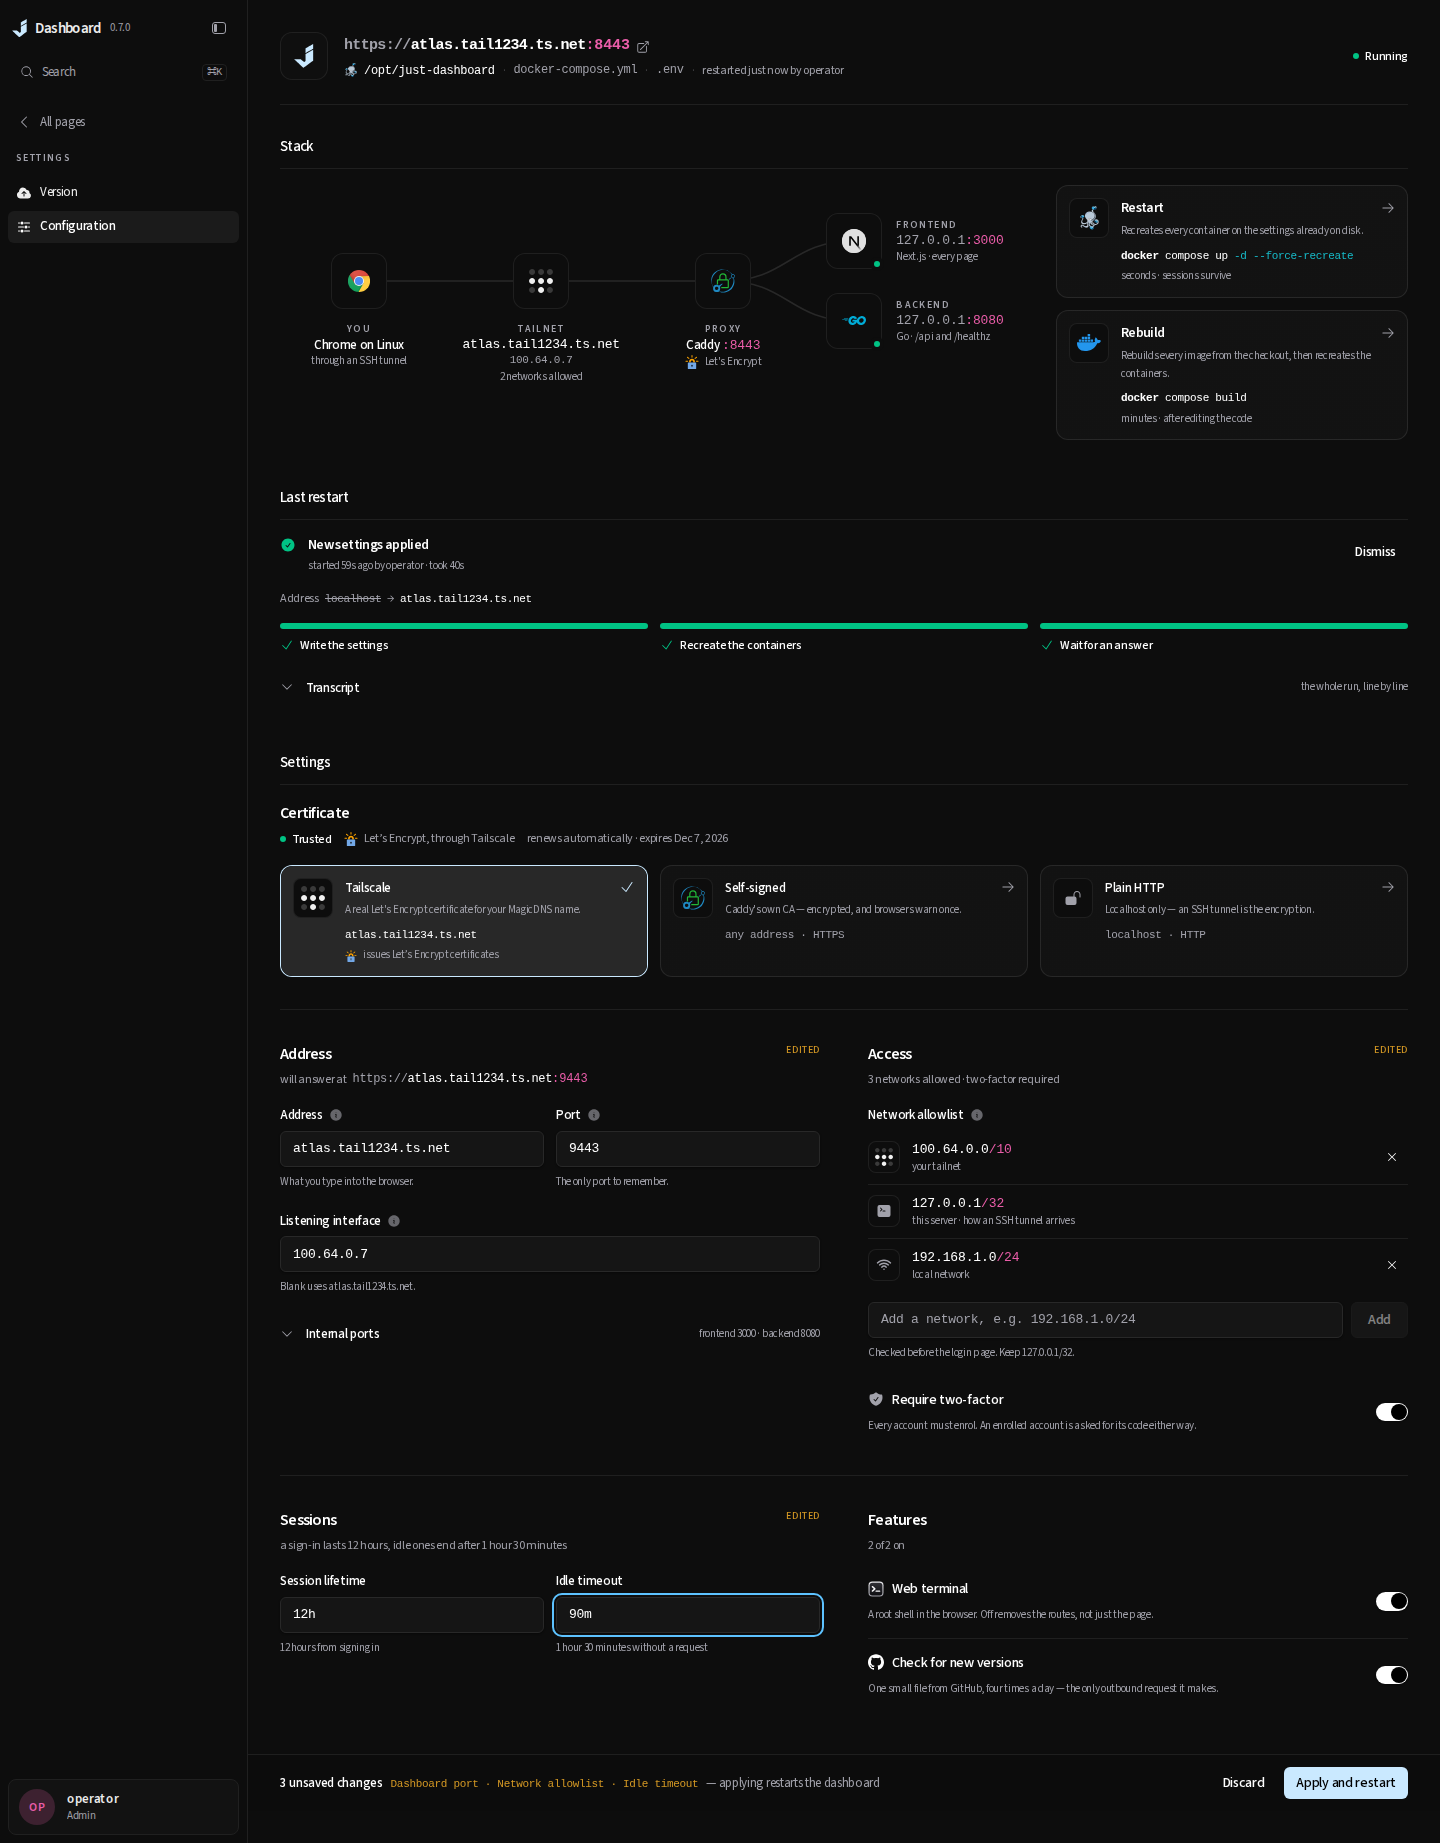
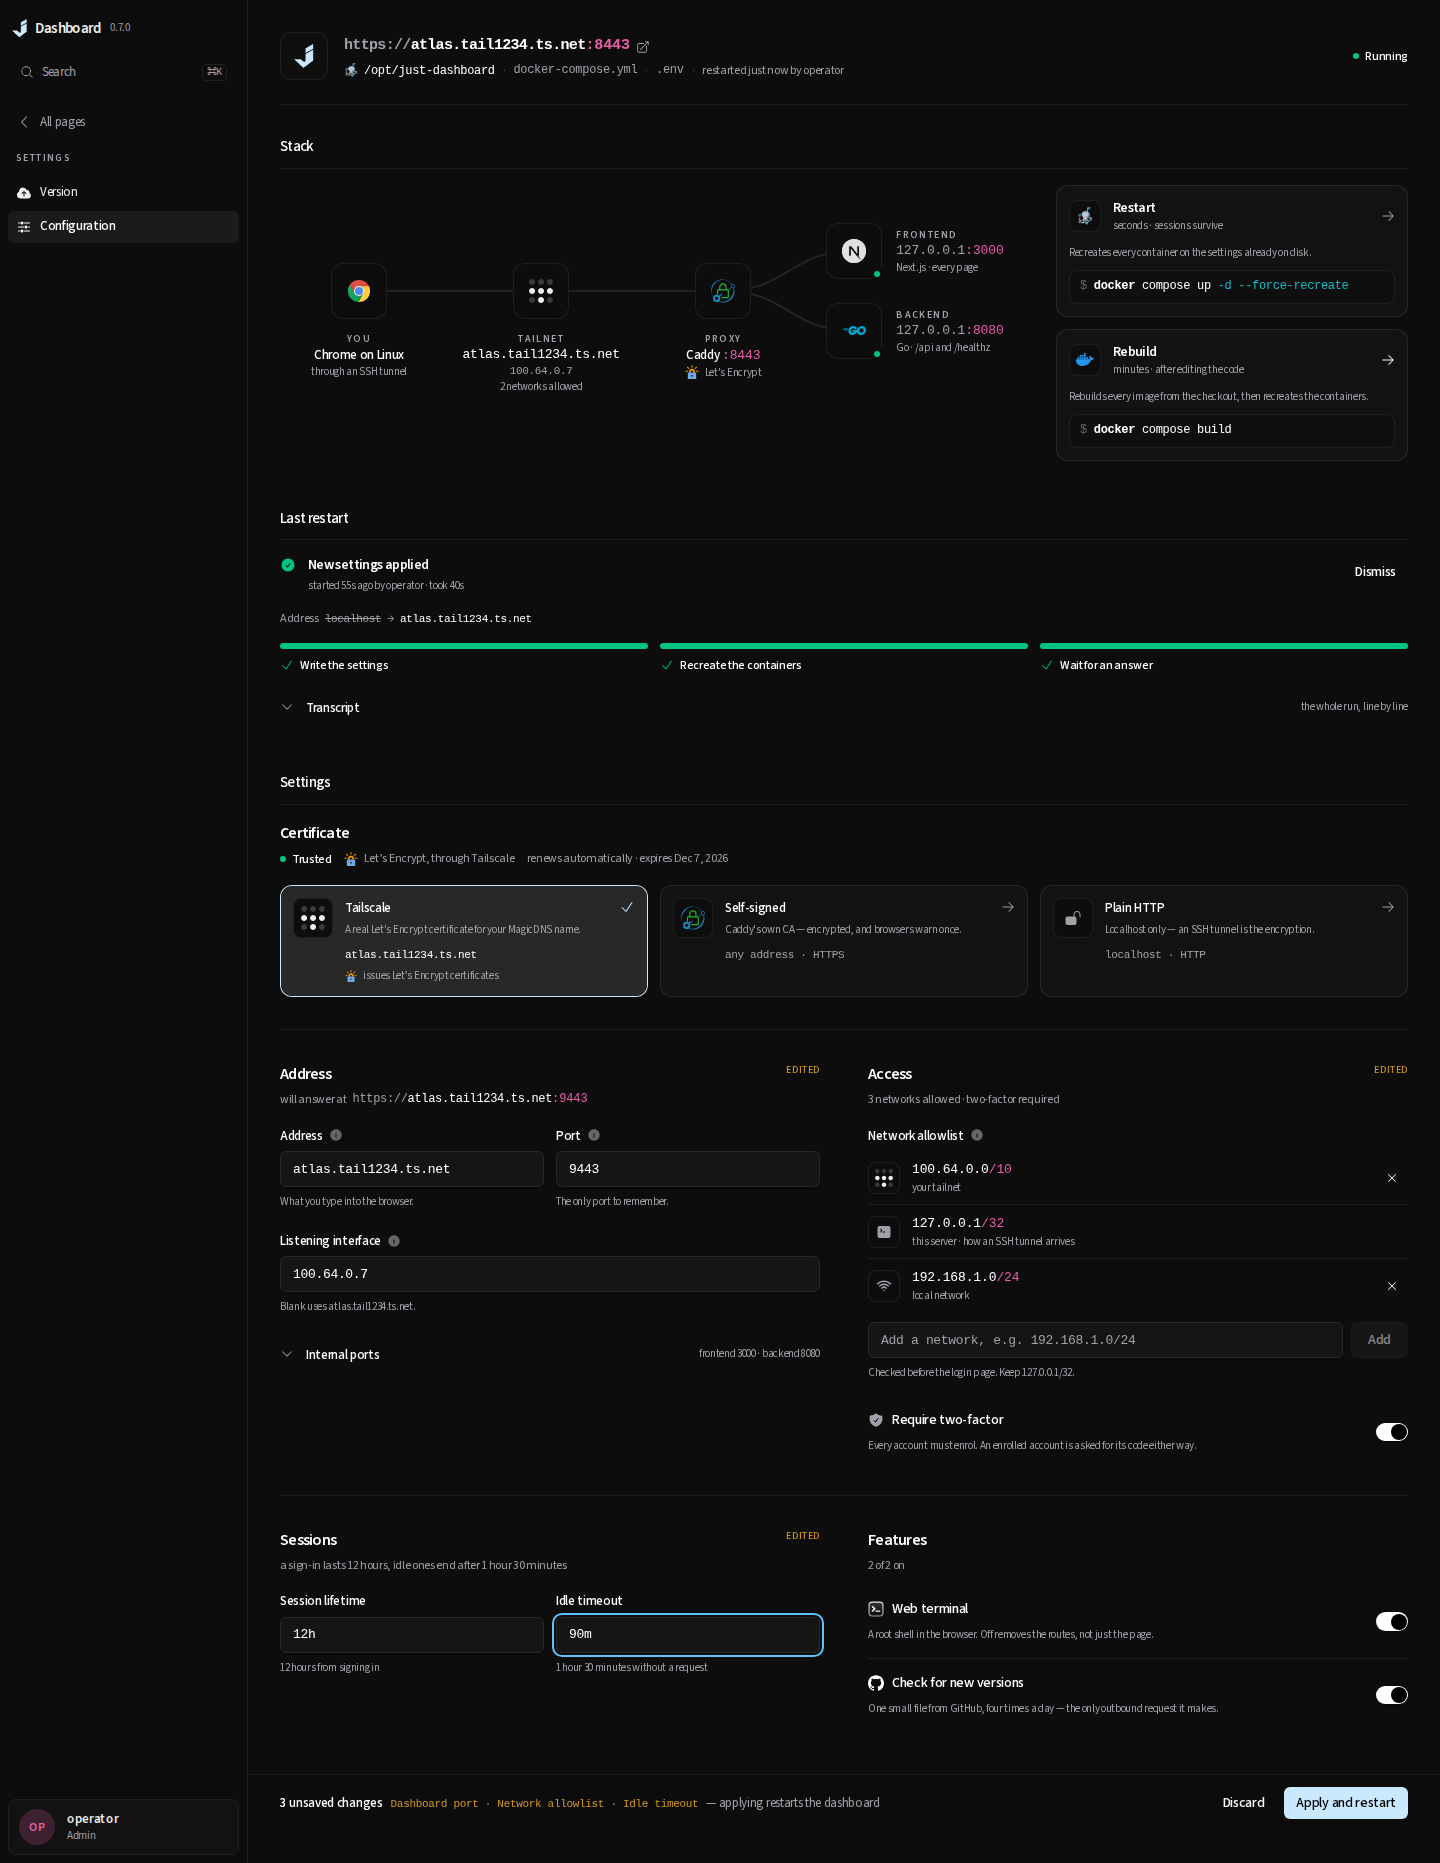
Head the restart cards with their mark and cost, and run the command full width under them
The logo had a column of its own, so each card was a tile over empty space beside four lines of words that wrapped. The mark now sits beside the name and the cost, the sentence takes the card's width on one line, and the command is a recessed strip across the foot.

diff --git a/frontend/src/app/(dashboard)/dashboard/configuration/page.tsx b/frontend/src/app/(dashboard)/dashboard/configuration/page.tsx
@@ -839,20 +839,34 @@ function Command({
   return (
     <ChoiceCard
       verb={verb}
-      title={<span className="text-sm font-semibold tracking-tight">{title}</span>}
-      logo={<ProductLogo id={product} />}
-      description={description}
-      index={index}
-      trailing={
-        <span className="flex min-w-0 flex-col gap-1 pt-1">
-          <ShellWords command={command} className="truncate text-hint" />
-          <span className="text-hint text-muted-foreground">
-            {mine && run ? <TextShimmer>{configPhaseLabel(run)}</TextShimmer> : cost}
+      // The mark heads the card beside its name and its cost, rather than
+      // through `logo`, which gives the tile a column of its own: beside four
+      // lines of words that column was a 40px tile over 80px of nothing, and
+      // the words it pushed over wrapped twice as often. Here the tile is as
+      // tall as the two lines beside it, and what follows has the full width.
+      title={
+        <span className="flex min-w-0 items-center gap-3">
+          <ProductLogo id={product} size="sm" />
+          <span className="min-w-0">
+            <span className="block truncate text-sm font-semibold tracking-tight">{title}</span>
+            <span className="block truncate text-hint font-normal text-muted-foreground">
+              {mine && run ? <TextShimmer>{configPhaseLabel(run)}</TextShimmer> : cost}
+            </span>
           </span>
         </span>
       }
+      description={<span className="mt-0.5 block">{description}</span>}
+      index={index}
+      trailing={
+        <Well className="w-full truncate px-2.5 py-1.5">
+          <span aria-hidden className="text-muted-foreground/60 select-none">
+            ${" "}
+          </span>
+          <ShellWords command={command} />
+        </Well>
+      }
       disabled={running}
-      className={mine ? "opacity-100" : undefined}
+      className={cn("gap-2", mine && "opacity-100")}
       onClick={onClick}
     >
       {mine && (
